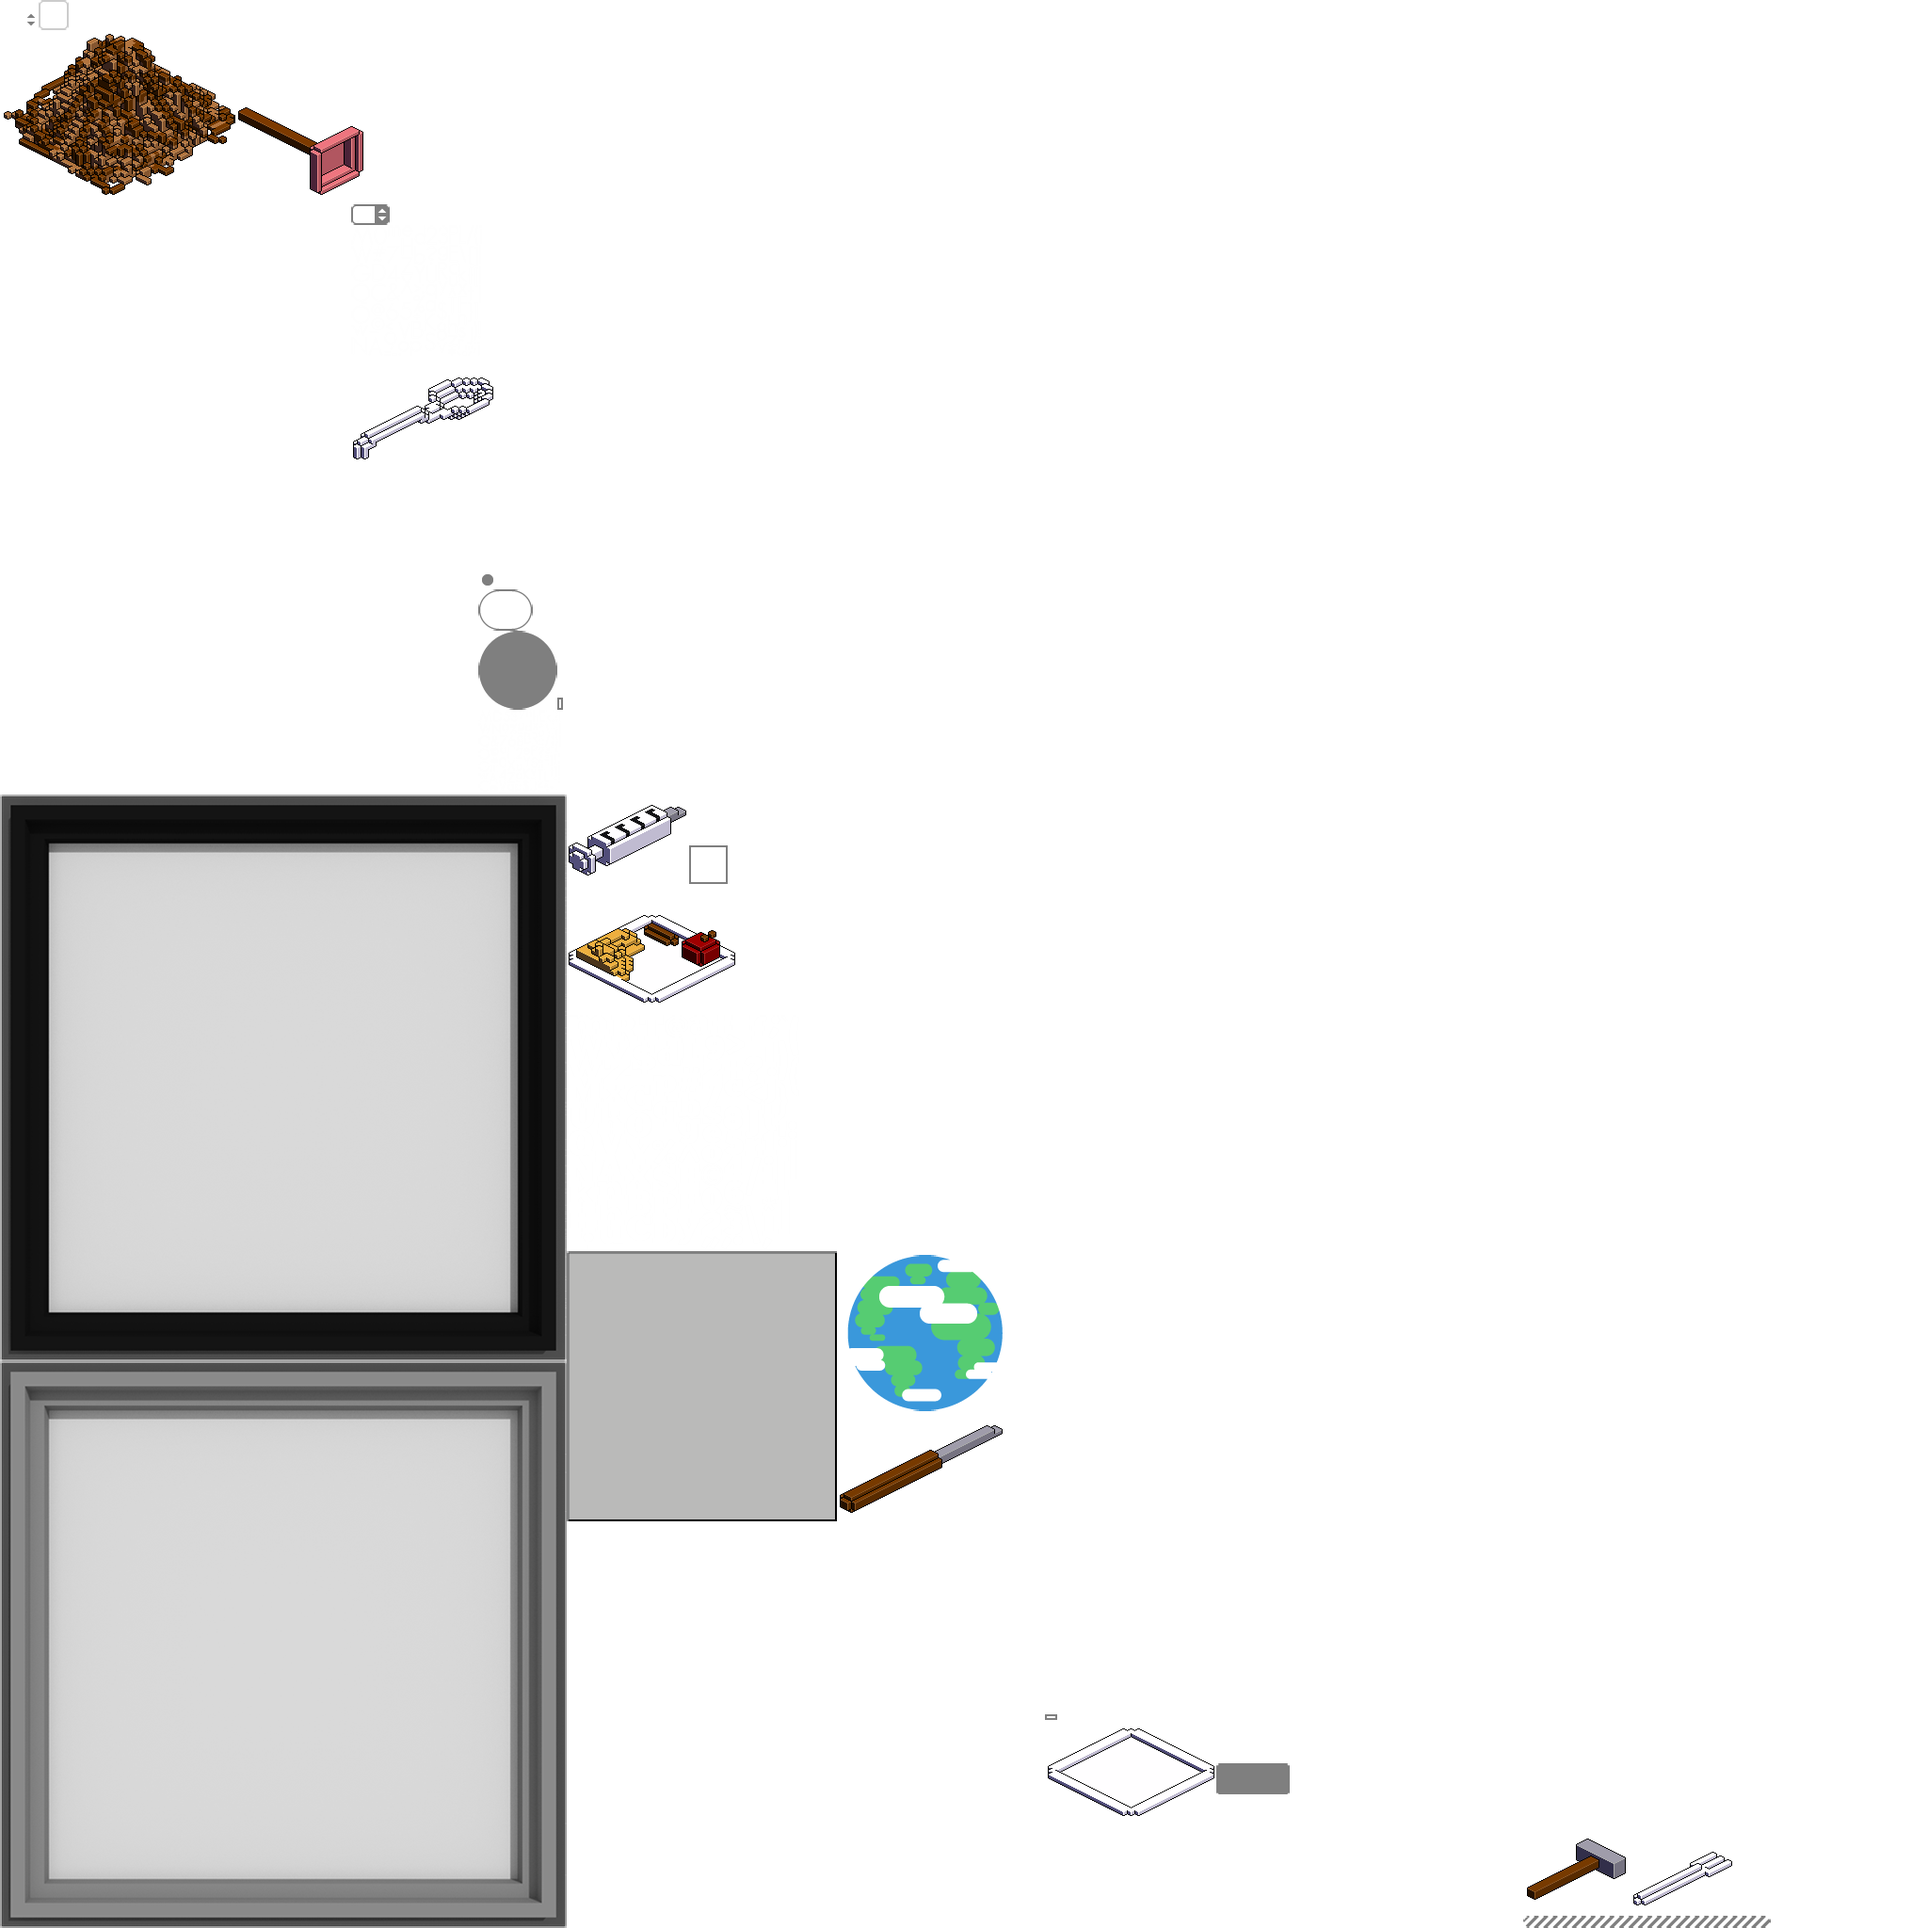
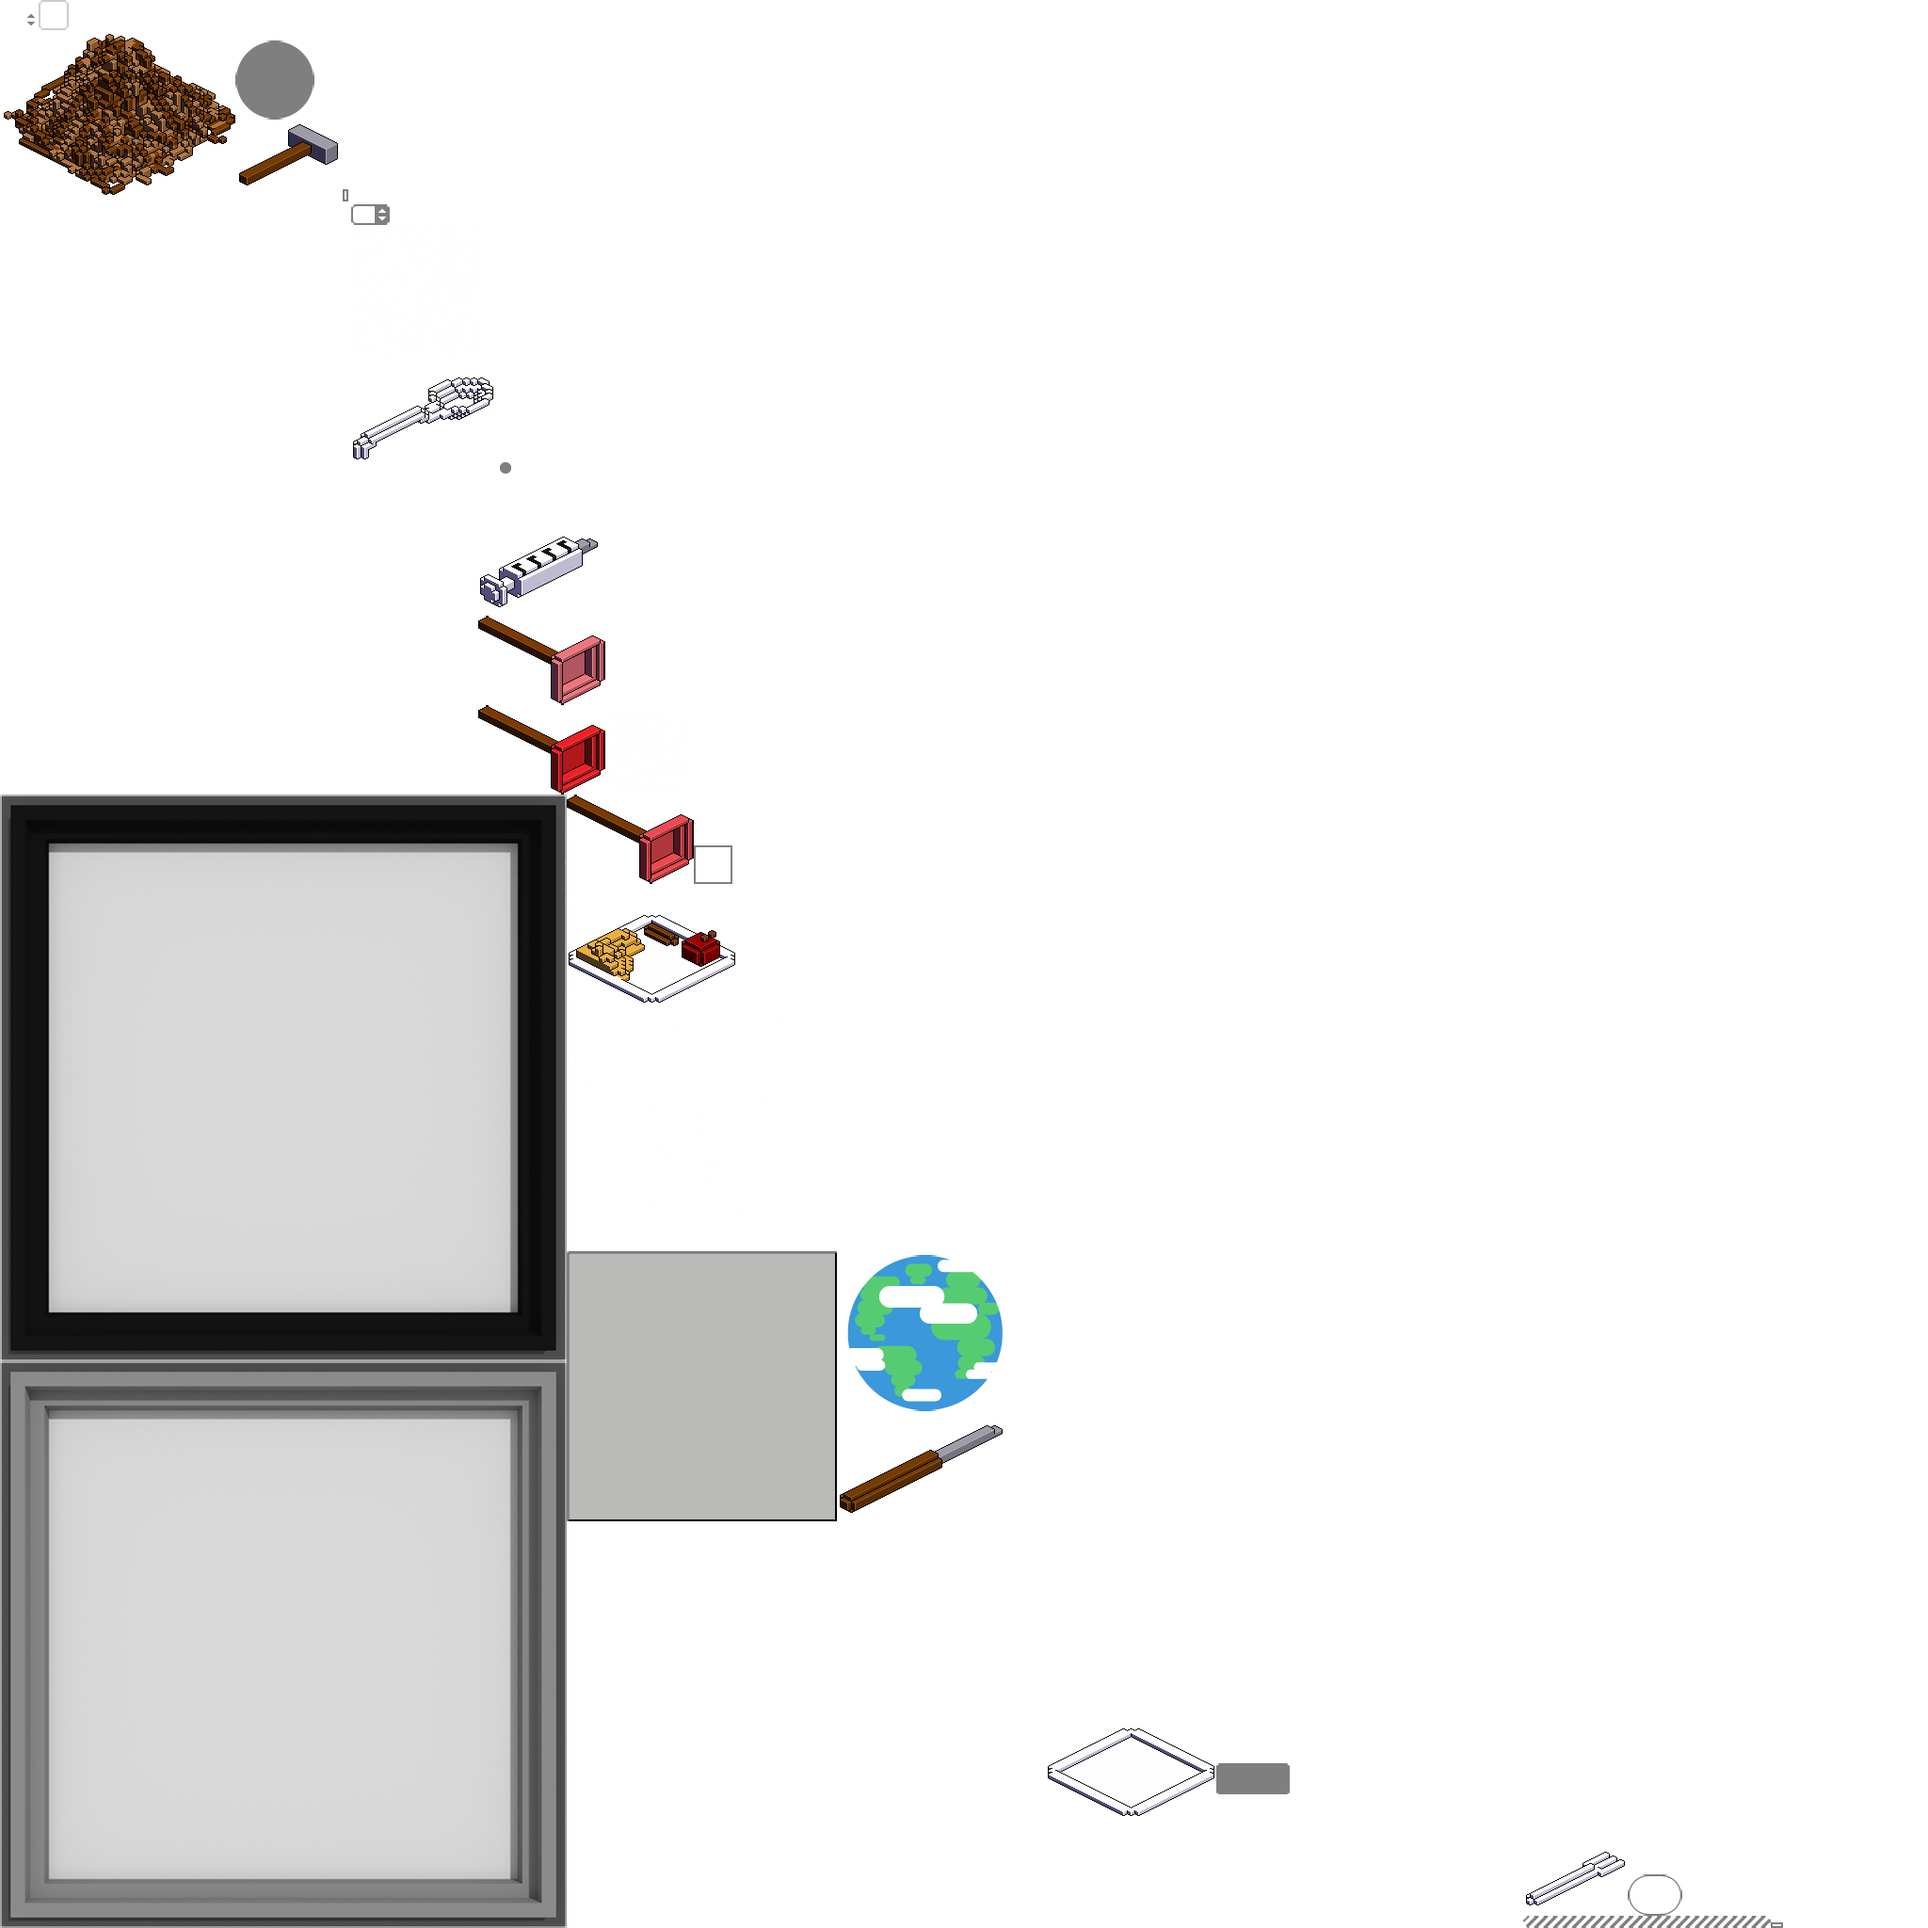
Add plunger skin

Changed region(s): [[0.25, 0.2812, 0.375, 0.4688], [0.125, 0.0, 0.1875, 0.125], [0.7812, 0.9375, 0.875, 1.0]]

diff --git a/core/src/com/mygdx/game/screen/GameScreen.java b/core/src/com/mygdx/game/screen/GameScreen.java
@@ -92,6 +92,10 @@ public class GameScreen extends AbstractScreen {
                 NpcBuilder.setEndStartDelay(evilNPC, 5000, 5000));
 
         gameRenderer = context.getGameRenderer();
+        player.addItem(itemBuilder.createItem(GameItems.DIRT));
+        player.addItem(itemBuilder.createItem(GameItems.DIRT));
+        player.addItem(itemBuilder.createItem(GameItems.DIRT));
+        player.addItem(itemBuilder.createItem(GameItems.PLUNGER));
 
         addEntity(player);
         npcList.stream().forEach(this::addEntity);

diff --git a/core/src/com/mygdx/game/items/sample/Plunger.java b/core/src/com/mygdx/game/items/sample/Plunger.java
@@ -13,9 +13,18 @@ public class Plunger extends Item {
     }
     public void decreaseCapacity(){
         capacity--;
+        switch (capacity){
+            case 2:
+                this.name = "plunger1";
+                break;
+            case 1:
+                this.name = "plunger2";
+        }
     }
 
     public int getCapacity() {
         return capacity;
     }
+
+
 }
